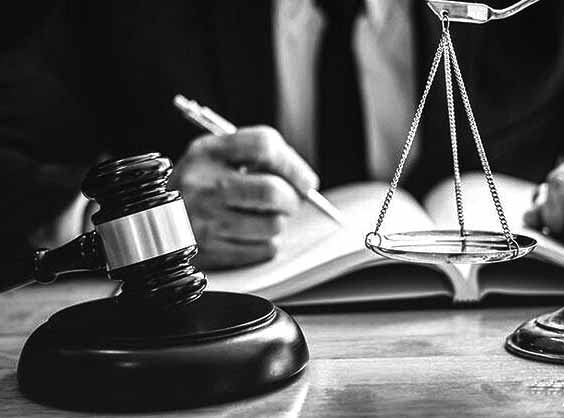
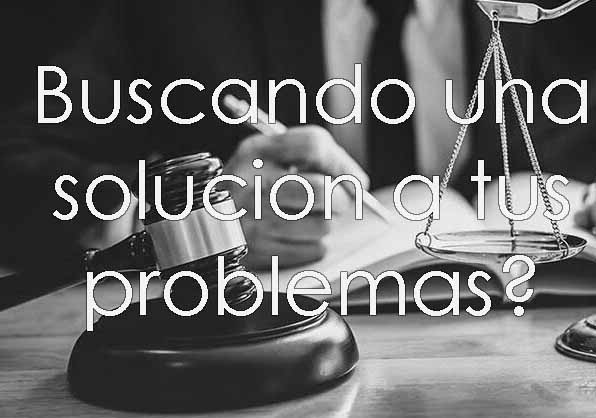
Version Final

diff --git a/index.html b/index.html
@@ -70,12 +70,12 @@
           </p>
         </div>
       </article>
-      <article class="row d-flex">
-        <div class="col">
-          <img src="assets/img/img-index.jpg" alt="imagen">
+      <hr>
+      <article class="index-art text-center m-5">
+        <div class="">
+          <img src="assets/img/img-index.jpg" alt="imagen" class="img-fluid img-index">
         </div>
-        <div class="col">
-          <h2>Buscas una solucion a tus problemas?</h2>
+        <div class="my-5 p-index">
           <p>Nuestro objetivo es darte una respuesta rápida y satisfactoria a tus necesidades.
           Sabemos que si tenes un problema queres que se resuelva rápido, y por eso en nuestro estudio jurídico, situado en zona norte, Saavedra, estamos siempre dispuestos a atenderte y darle solución a cualquier consulta o contratiempo que tengas.
           No dudes en consultarnos, ya sea por mail, llamada telefónica o Whatsapp.
@@ -124,3 +124,5 @@
   </footer>
 </body>
 </html>
+
+<!-- flex-row-reverse bd-highlight -->

diff --git a/scss/_medias-queries.scss b/scss/_medias-queries.scss
@@ -14,6 +14,10 @@
         border-top: 11px solid $color-main;
         border-radius: 37px 37px 0px 0px;
     }
+    .index-art{
+        display: block;
+        
+    }
 }
 @media (min-width:577px){
     .border-imagen{ 
@@ -48,6 +52,22 @@
     }
     .border-imagen-r{ 
         transform: scale(-1, 1);
+    }
+    .index-art{
+        display: flex;
+        flex-flow: row-reverse   nowrap;
+        align-items: center;
+    }
+    .img-index{
+        margin-left: 5%;
+    }
+    .p-index{
+        max-width: 65%;
+        
+    }
+    .fondo-art{
+        background-color: rgba(169, 169, 169, 0.849);
+        height: 70%;
     }
 }
 

diff --git a/css/estilos.css b/css/estilos.css
@@ -219,6 +219,10 @@ footer #footer-copy a:hover {
     border-top: 11px solid #00182E;
     border-radius: 37px 37px 0px 0px;
   }
+
+  .index-art {
+    display: block;
+  }
 }
 @media (min-width: 577px) {
   .border-imagen {
@@ -255,6 +259,25 @@ footer #footer-copy a:hover {
 
   .border-imagen-r {
     transform: scale(-1, 1);
+  }
+
+  .index-art {
+    display: flex;
+    flex-flow: row-reverse nowrap;
+    align-items: center;
+  }
+
+  .img-index {
+    margin-left: 5%;
+  }
+
+  .p-index {
+    max-width: 65%;
+  }
+
+  .fondo-art {
+    background-color: rgba(169, 169, 169, 0.849);
+    height: 70%;
   }
 }
 /* MEDIAS QUERIES */
